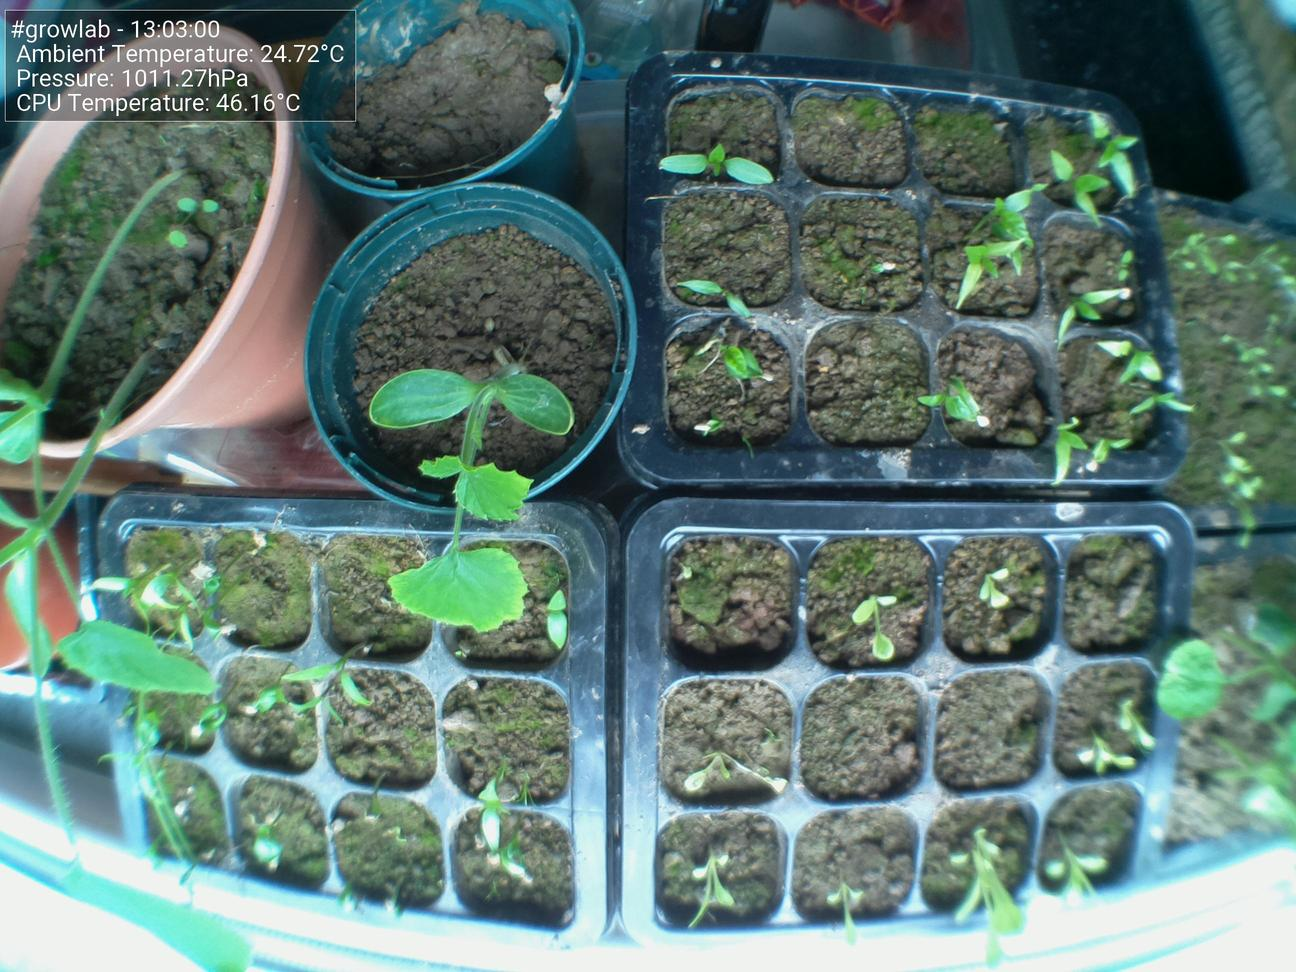
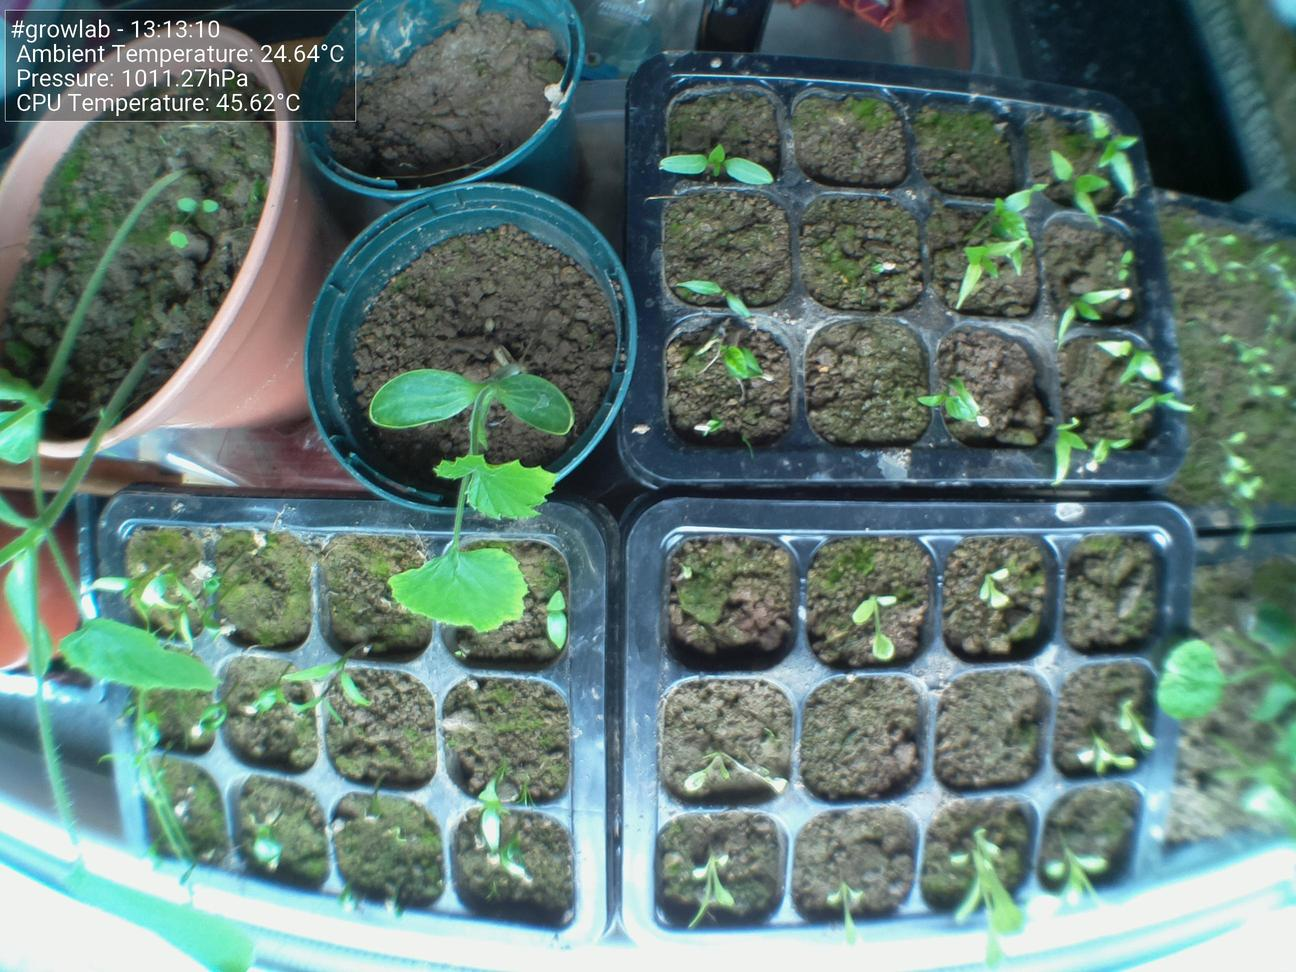
Update images at Fri 13 May 13:13:16 BST 2022

diff --git a/docs/index.html b/docs/index.html
@@ -44,15 +44,15 @@
                         <tbody>
                             <tr>
                                 <td>Time</td>
-                                <td>13:03:00</td>
+                                <td>13:13:10</td>
                             </tr>
                             <tr>
                                 <td>CPU Temp</td>
-                                <td>46.16°C</td>
+                                <td>45.62°C</td>
                             </tr>
                             <tr>
                                 <td>Ambient Temperature</td>
-                                <td>24.72°C</td>
+                                <td>24.64°C</td>
                             </tr>
                             <tr>
                                 <td>Humidity</td>
@@ -68,7 +68,7 @@
 
                 <h5>Latest image</h5>
                 <div style="width: 85%;">
-                            <img class="figure-img img-fluid rounded" src="./preview.jpg?uid=1652443384.8651083">
+                            <img class="figure-img img-fluid rounded" src="./preview.jpg?uid=1652443996.4573524">
                 </div>
             </div>
         </div>
